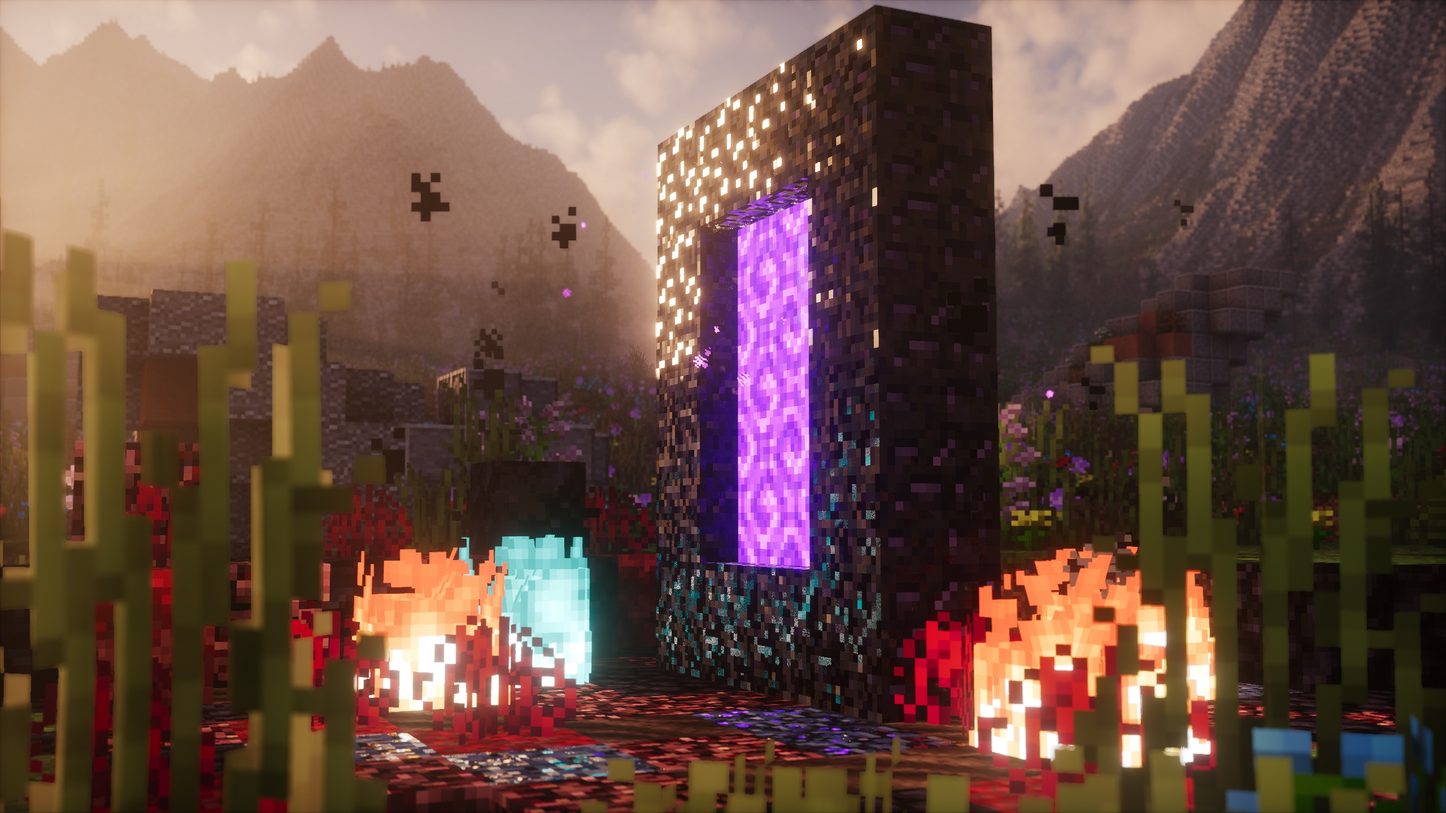
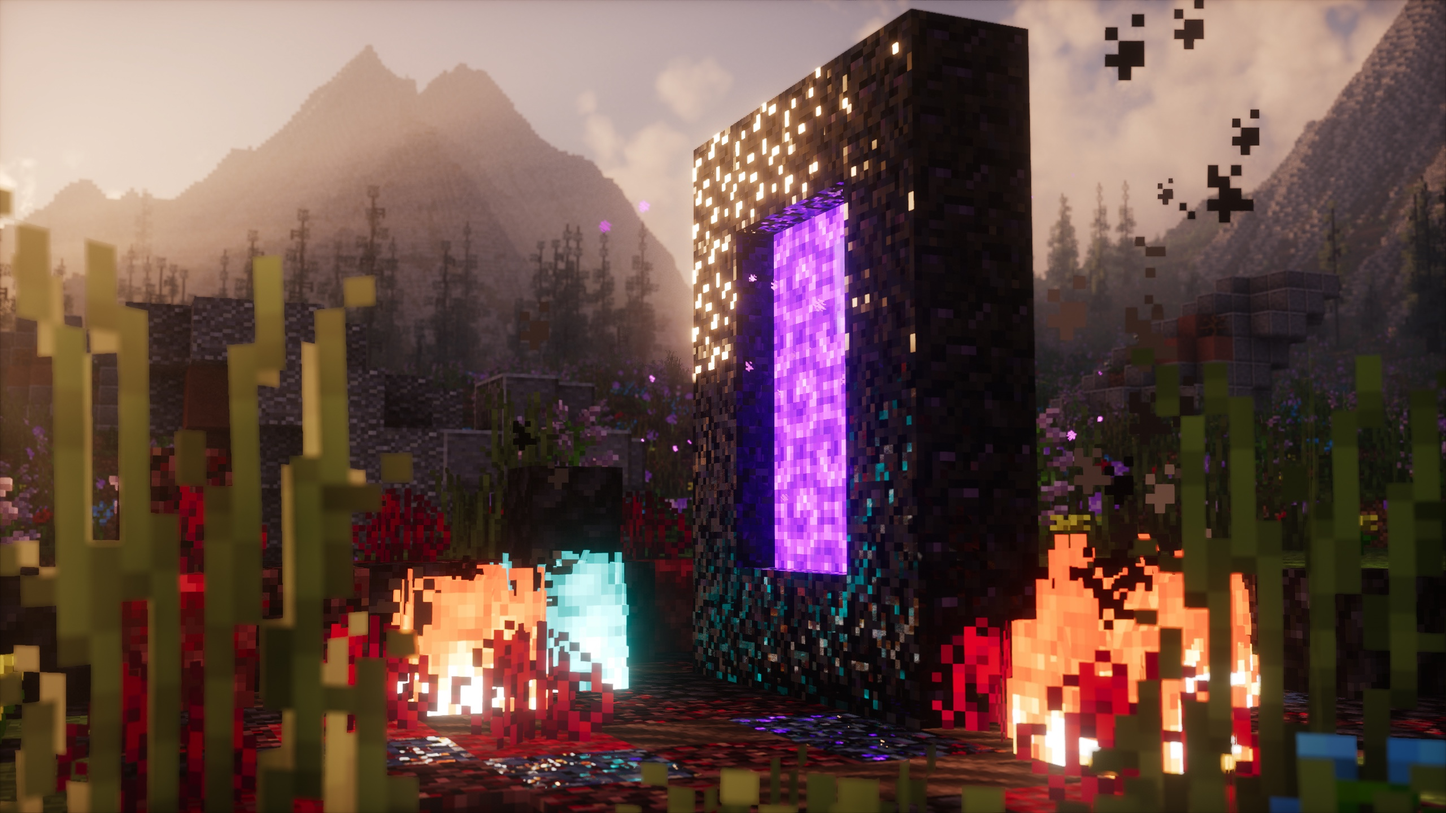
Updated Legacy Reforged & Added new screenshots to the website

diff --git a/site/index.html b/site/index.html
@@ -78,6 +78,8 @@
             <li><a href="https://modrinth.com/shader/bsl-shaders" target="_blank">BSL by <em>CaptTatsu</em></a></li>
             <li><a href="https://modrinth.com/shader/complementary-reimagined" target="_blank">Complementary by <em>EminGT</em></a></li>
         </ul>
+
+        <p> <em>(Make sure you enable any shader settings related to normalmaps, specular highlights, "Advanced Materials", etc.)</em> </p>
         <p>
             If you have any questions, concerns, or recommendations, feel free to contact me at <a href="mailto:glitch@legacy-reforged.com">glitch@legacy-reforged.com</a>.
         </p>
